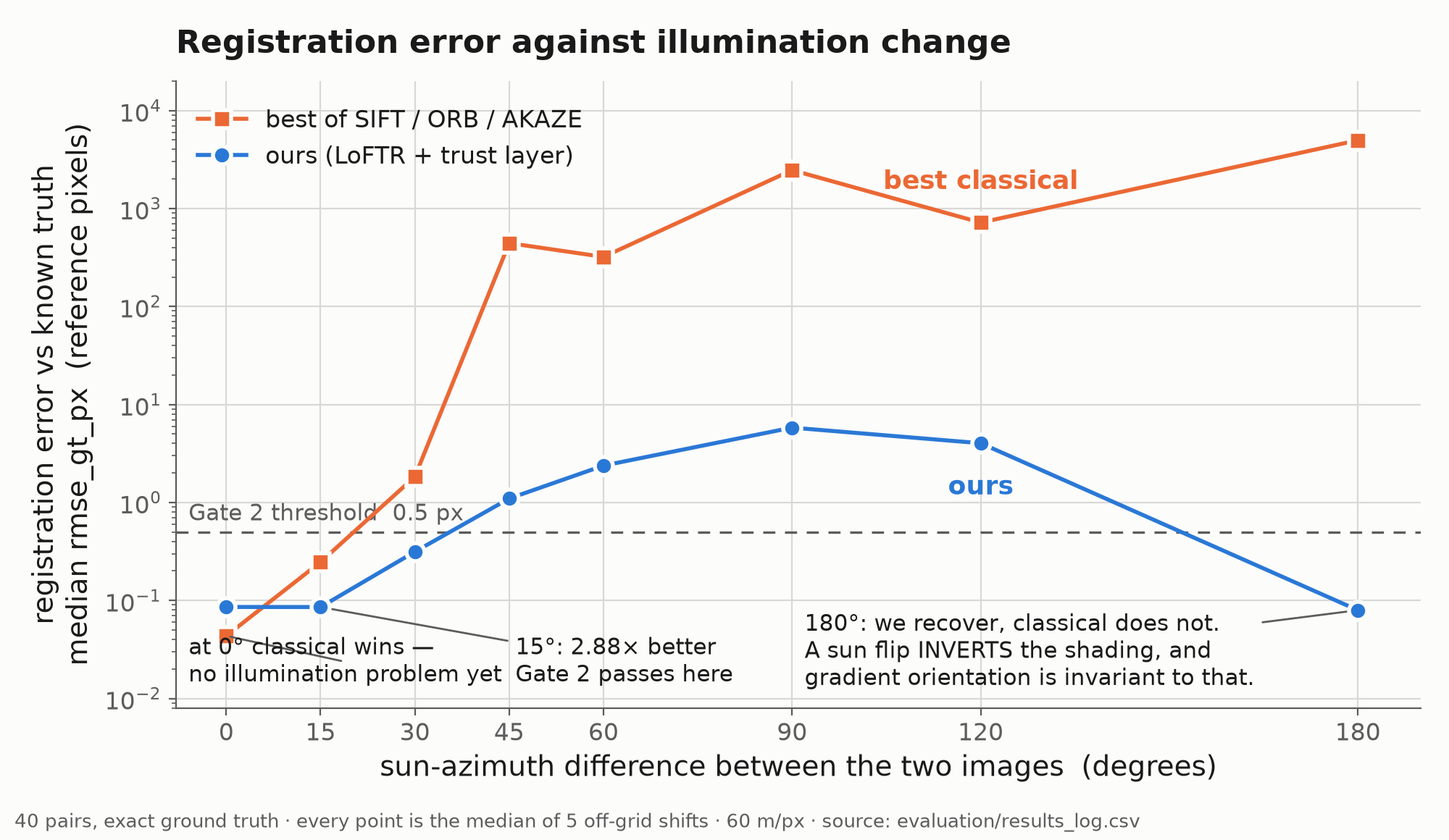
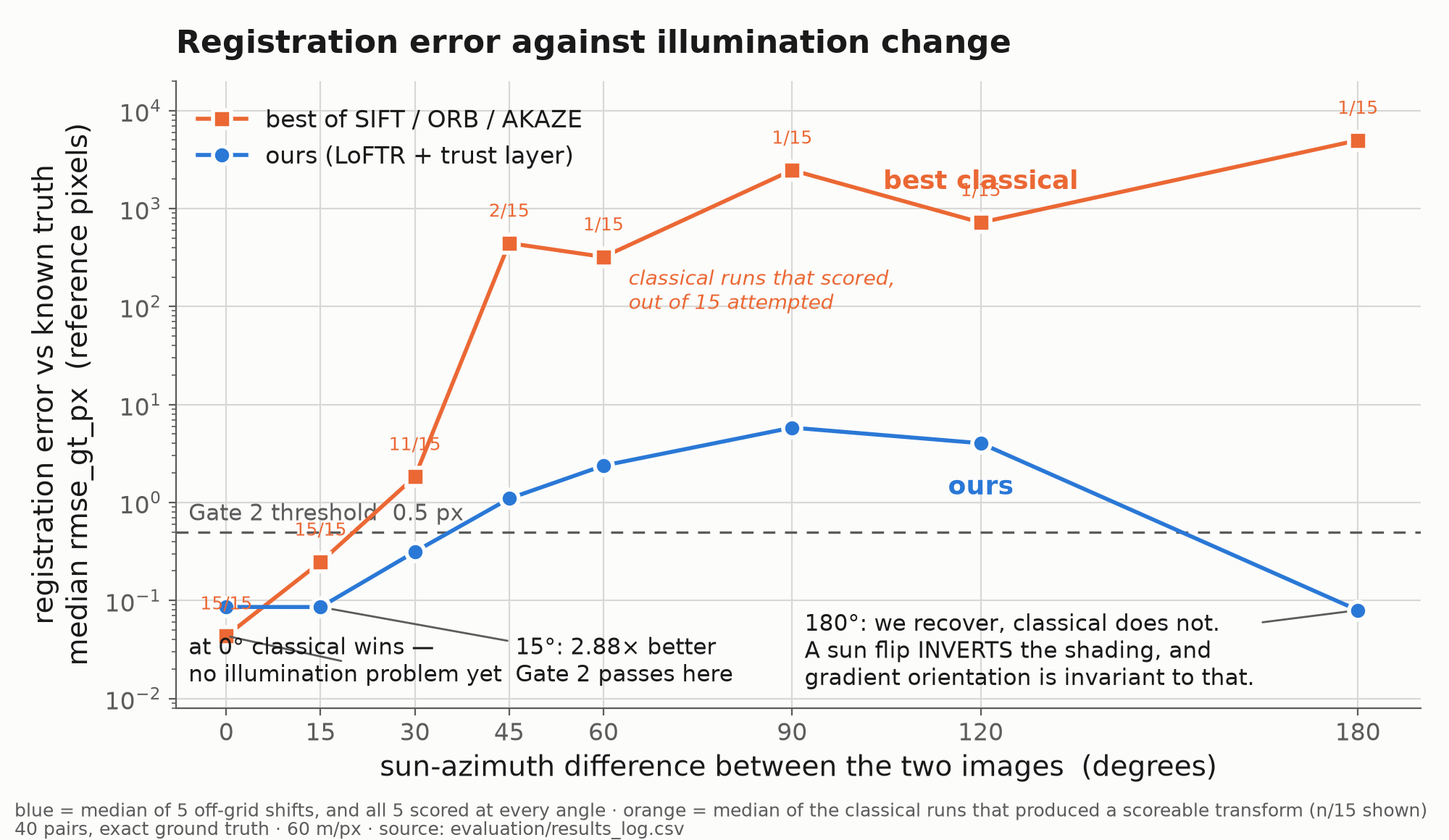
An audit caught two false claims I shipped today - both are on the deck, both are now corrected
A 30-agent adversarial sweep over the whole project surfaced 8 findings that survived refutation.
Two were HIGH, both were mine from today, and both were in judged material. Verified each myself
against the log before touching anything.

1. THE CLASSICAL MEDIANS WERE MISLABELLED. sweep_baselines.py appends only runs that produce an
   rmse_gt_px - correct, a failed run has no score - but it then printed the survivors' median with
   no n, and I captioned it "median of 5 off-grid shifts" in the figure, GATE2_EVIDENCE, the deck,
   QA_ANSWERS, STATUS and CANONICAL_FACTS. The real counts:

     delta | classical runs that scored
        0  | 15/15        45  | 2/15
       15  | 15/15        60  | 1/15
       30  | 11/15        90  | 1/15
                         120  | 1/15
                         180  | 1/15   <- the headline 62,519x rests on ONE run

   Gate 2 is untouched: at 0 and 15 degrees all three detectors scored 5/5, so the 2.88x the gate
   rests on was never affected. Ours scored 5/5 at every angle.

   The honest framing is stronger, which is the point: "past 30 degrees classical mostly returns no
   answer at all - at 180 degrees fourteen of fifteen runs failed outright, the one that scored was
   4,972 px wrong, and we scored five of five at 0.080 px." A success rate cannot be attacked on
   sample size; the ratio could. Every classical figure now carries its n, the figure prints n/15
   over each orange point, and the tool refuses to emit a bare median.
[…]

diff --git a/presentation/make_figures.py b/presentation/make_figures.py
@@ -56,27 +56,42 @@ def _delta(r):
 
 
 def load_curves():
-    """median rmse_gt_px per sun delta, for ours and for the best classical detector."""
-    ours, cls = {}, {}
+    """Per sun delta: our median, the best classical median, and HOW MANY classical runs scored.
+
+    The n matters and is not decoration. A classical run that fails produces no `rmse_gt_px`
+    and so cannot enter a median - correct - but the first version of this figure then
+    captioned the survivors' median "median of 5 off-grid shifts". At 180 deg exactly ONE of
+    fifteen classical runs scored; that "median of five" was a median of one, and it reached
+    the deck, the Q&A bank and the gate evidence. The success rate is returned alongside so
+    the plot can show what actually happened: past 30 deg the classical arm mostly returns no
+    usable answer at all, which is a stronger result than any median.
+    """
+    ours, cls, attempts = {}, {}, {}
     for r in _rows(LOG):
         d, v = _delta(r), r.get("rmse_gt_px")
-        if d is None or not v or v == "None":
+        if d is None:
             continue
+        scored = bool(v) and v != "None"
         if r.get("method") == "ours_loftr+subpixel":
-            ours.setdefault(d, []).append(float(v))
+            if scored:
+                ours.setdefault(d, []).append(float(v))
         elif (r.get("method") in ("SIFT", "ORB", "AKAZE")
               and "GATE 2 CRITERION 5" in (r.get("notes") or "")):
-            cls.setdefault((d, r["method"]), []).append(float(v))
+            attempts[d] = attempts.get(d, 0) + 1
+            if scored:
+                cls.setdefault((d, r["method"]), []).append(float(v))
     deltas = sorted(ours)
     o = [st.median(ours[d]) for d in deltas]
-    best = []
+    best, nscored, ntried = [], [], []
     for d in deltas:
         per = [st.median(cls[(d, m)]) for m in ("SIFT", "ORB", "AKAZE") if (d, m) in cls]
         best.append(min(per) if per else np.nan)
-    return deltas, o, best
+        nscored.append(sum(len(v) for k, v in cls.items() if k[0] == d))
+        ntried.append(attempts.get(d, 0))
+    return deltas, o, best, nscored, ntried
 
 
-def fig_sun_angle(deltas, ours, best):
+def fig_sun_angle(deltas, ours, best, nscored, ntried):
     fig, ax = plt.subplots(figsize=(10, 5.8))
     ax.set_yscale("log")
     ax.grid(True, which="major", color=GRID, linewidth=0.8, zorder=0)
@@ -117,6 +132,18 @@ def fig_sun_angle(deltas, ours, best):
                 color=INK, fontsize=11, ha="left", va="bottom",
                 arrowprops=dict(arrowstyle="-", color=MUTED, linewidth=1))
 
+    # How many classical runs actually produced a scoreable transform. Past 30 deg most
+    # produce none, and the orange point is then one or two survivors - NOT a median of 15.
+    # Printing this on the figure is what stops the number being miscaptioned downstream.
+    for x, b, ns, nt in zip(deltas, best, nscored, ntried):
+        if np.isfinite(b):
+            ax.annotate(f"{ns}/{nt}", xy=(x, b), xytext=(0, 11), textcoords="offset points",
+                        ha="center", va="bottom", fontsize=9, color=ORANGE, zorder=5)
+    # No in-plot explainer for the n labels: at this y it lands on the legend. The two
+    # footer lines below carry it instead.
+    ax.text(64, 250, "classical runs that scored,\nout of 15 attempted",
+            color=ORANGE, fontsize=10, ha="left", va="top", style="italic")
+
     ax.set_xlabel("sun-azimuth difference between the two images  (degrees)")
     ax.set_ylabel("registration error vs known truth\nmedian rmse_gt_px  (reference pixels)")
     ax.set_title("Registration error against illumination change",
@@ -125,9 +152,11 @@ def fig_sun_angle(deltas, ours, best):
     ax.set_xlim(-8, 190)
     ax.set_ylim(0.008, 20000)
     ax.legend(loc="upper left", frameon=False, bbox_to_anchor=(0.0, 0.99))
-    fig.text(0.01, 0.015, "40 pairs, exact ground truth · every point is the median of 5 "
-             "off-grid shifts · 60 m/px · source: evaluation/results_log.csv",
-             fontsize=9.5, color=MUTED)
+    fig.text(0.01, 0.028, "blue = median of 5 off-grid shifts, and all 5 scored at every angle · "
+             "orange = median of the classical runs that produced a scoreable transform (n/15 shown)",
+             fontsize=9, color=MUTED)
+    fig.text(0.01, 0.006, "40 pairs, exact ground truth · 60 m/px · "
+             "source: evaluation/results_log.csv", fontsize=9, color=MUTED)
     fig.tight_layout(rect=(0, 0.035, 1, 1))
     p = OUT / "fig1_sun_angle_vs_error.png"
     fig.savefig(p, dpi=200)
@@ -203,12 +232,13 @@ def fig_trust_calibration():
 
 def main() -> int:
     OUT.mkdir(parents=True, exist_ok=True)
-    deltas, ours, best = load_curves()
+    deltas, ours, best, nscored, ntried = load_curves()
     print(f"  read {len(deltas)} sun deltas from {LOG.name}")
-    for d, o, b in zip(deltas, ours, best):
+    for d, o, b, ns, nt in zip(deltas, ours, best, nscored, ntried):
         ratio = (b / o) if (o and np.isfinite(b)) else float("nan")
-        print(f"    {int(d):>4}°  ours {o:9.3f}   best classical {b:11.3f}   {ratio:9.2f}x")
-    print(f"  wrote {fig_sun_angle(deltas, ours, best).name}")
+        print(f"    {int(d):>4}°  ours {o:9.3f}   best classical {b:11.3f} "
+              f"(from {ns}/{nt} scoreable runs)   {ratio:9.2f}x")
+    print(f"  wrote {fig_sun_angle(deltas, ours, best, nscored, ntried).name}")
     print(f"  wrote {fig_trust_calibration().name}")
     return 0
 

diff --git a/baselines/sweep_baselines.py b/baselines/sweep_baselines.py
@@ -30,6 +30,18 @@ produced a number that looked fine and meant nothing.
 4. FAILURES ARE LOGGED, NOT DROPPED (`allow_failed=True`). Classical methods genuinely
    fall over past ~30 degrees of sun difference. A logged failure is the evidence; a
    filtered-out failure is a flattering lie about the comparison.
+
+5. EVERY MEDIAN CARRIES ITS n, AND THE SUCCESS RATE IS THE HEADLINE. Fixed Day 6 after an
+   audit caught it. A run that fails produces no `rmse_gt_px`, so it cannot enter a median
+   - correct - but the first version of this script then printed the survivors' median with
+   no n, and the number was copied into the deck, the Q&A bank and the gate evidence
+   captioned "median of 5 off-grid shifts". At 180 degrees SIFT scored 1 run of 5; that
+   "median of five" was a median of one. Five of the eight sun angles were mislabelled the
+   same way.
+   The honest framing is also the stronger one: past 30 degrees classical methods usually
+   produce NO scoreable transform at all, and that is a better result for us than any
+   median. So this script now prints `n/N` beside every median and a SUCCESS RATE row, and
+   refuses to print a bare median without its n.
 """
 from __future__ import annotations
 
@@ -121,30 +133,41 @@ def main(argv: list[str]) -> int:
     print("\n" + "=" * 78)
     print("  GATE 2 CRITERION 5 - median rmse_gt_px per detector per sun-azimuth delta")
     print("=" * 78)
-    hdr = "  delta  " + "".join(f"{n:>12s}" for n, _ in DETECTORS) + f"{'best cls':>12s}"
+    N = args.repeats
+    hdr = "  delta  " + "".join(f"{n + ' (n/N)':>16s}" for n, _ in DETECTORS) + f"{'best cls':>16s}{'success':>10s}"
     print(hdr)
     best_by_delta: dict[float, float] = {}
     for d in deltas:
         line = f"  {int(d):>5d}  "
-        meds = []
+        meds, scored, attempted = [], 0, 0
         for name, _ in DETECTORS:
             vals = rows[name][d]
+            attempted += N
+            scored += len(vals)
             if vals:
                 med = statistics.median(vals)
-                meds.append(med)
-                line += f"{med:>12.3f}"
+                meds.append((med, len(vals)))
+                # n/N is NOT decoration. A median of 1 surviving run is not a median of N,
+                # and printing it bare is how "median of 5 off-grid shifts" reached a slide.
+                line += f"{f'{med:.3f} ({len(vals)}/{N})':>16s}"
             else:
-                line += f"{'no gt':>12s}"
+                line += f"{f'FAILED (0/{N})':>16s}"
         if meds:
-            best_by_delta[d] = min(meds)
-            line += f"{min(meds):>12.3f}"
+            best, bn = min(meds, key=lambda t: t[0])
+            best_by_delta[d] = best
+            line += f"{f'{best:.3f} ({bn}/{N})':>16s}"
         else:
-            line += f"{'-':>12s}"
+            line += f"{'ALL FAILED':>16s}"
+        line += f"{f'{scored}/{attempted}':>10s}"
         print(line)
 
     print("\n  A number here is the TRUE error against the known homography, in reference")
-    print("  pixels. Lower is better. `no gt` means every repeat failed before a transform")
+    print("  pixels. Lower is better. `FAILED` means every repeat failed before a transform")
     print("  could be scored - which is itself the finding, and those rows are logged.")
+    print("\n  READ THE (n/N) BEFORE QUOTING ANY NUMBER. A failed run produces no score, so it")
+    print("  cannot enter a median. `4971.677 (1/5)` is ONE run that happened to score, not a")
+    print("  median of five - do not caption it as one. The `success` column is the honest")
+    print("  headline past 30 deg: classical methods mostly return no usable answer at all.")
     print("\n  Compare against our own medians from the same pairs (results_log.csv,")
     print("  method ours_loftr+subpixel): 0deg 0.086 | 15deg 0.086 | 30deg 0.314 | 45deg 1.096")
     print("  Gate 2 criterion 5 needs ours to be >=2x better at a stated delta <= 15 deg.")

diff --git a/presentation/build_deck.py b/presentation/build_deck.py
@@ -70,11 +70,17 @@ SLIDES = {
         ("An independent pixel check re-derives the alignment without looking at any "
          "match; the cells vote on the matcher's transform.", 1, False, INK),
         ("The finding, not the feature:", 0, True, ACCENT),
-        ("The PS asks for RMSE, inlier count and inlier ratio. We implemented all three, "
-         "then found a real lunar case where all three look acceptable and the "
-         "registration is 100% wrong.", 1, False, INK),
-        ("88 correspondences, RANSAC consensus — and 0 of 35 measurable cells agree. "
-         "The system declares it contradicted, falls back, and reports 231 m ± 216 m.", 1, False, INK),
+        # CORRECTED Day 6. This used to say "all three look acceptable and the registration
+        # is 100% wrong" - which our OWN logged row refutes: inlier count 5, inlier ratio
+        # 0.057. A judge asking "show me the ratio you say looked fine" would have falsified
+        # the 25%-weighted novelty claim from our own evidence file. Do not restore it.
+        ("The PS asks for RMSE, inlier count and inlier ratio. We implemented all three — "
+         "then found a real lunar case where the matcher still returns a confident "
+         "consensus transform that the pixels flatly contradict.", 1, False, INK),
+        ("88 correspondences, RANSAC reports success — and 0 of 35 measurable cells agree "
+         "with the result. The system declares it contradicted, refuses it, falls back, "
+         "and reports 231 m ± 216 m: a declared failure with a number on it.", 1, False, INK),
+        ("Match statistics describe the matches. They cannot see the ground.", 1, True, ACCENT),
         ("Self-consistency cannot detect its own failure. We built the check that can, "
          "and measured it: 77% detection at 0% false alarms.", 1, False, INK),
         ("Verified cells: 0.123 px = 7.4 m, 99.0% under half a pixel (817 cells).", 1, False, INK),

diff --git a/presentation/DECK_CONTENT.md b/presentation/DECK_CONTENT.md
@@ -84,14 +84,24 @@ The PS names three difficulties and we address each, on the axis it names:
 ### Innovation and uniqueness — **lead with the finding, not the feature**
 
 > **"The problem statement asks for RMSE, inlier count and inlier ratio. We implemented all three —
-> then found a reproducible case on real lunar data where all three look acceptable and the
-> registration is 100% wrong. Self-consistency cannot detect its own failure. So we built the
-> independent check that can — and we measured how often it works."**
+> and then found a reproducible case on real lunar data where the matcher still returns a
+> confident consensus transform that the pixels flatly contradict. Match statistics describe the
+> matches; they cannot see the ground. So we built the check that can — and we measured how often
+> it works."**
+
+> 🔴 **CORRECTED Day 6 — do not restore the earlier wording.** This bullet used to read *"all three
+> look acceptable and the registration is 100% wrong."* **Our own logged row refutes that**: on
+> `pair_04_tierD_native` the inlier count is **5** and the inlier ratio **0.057**, which look
+> terrible, not acceptable. A judge asking "show me the inlier ratio you say looked fine" would have
+> opened `results_log.csv` and falsified the project's single 25%-weighted novelty claim from its
+> own evidence file. The finding is real; only that sentence was wrong.
 
 - **The case** *(row `pair_04_tierD_native`, `ours_loftr+subpixel`)*: 88 correspondences, RANSAC
-  consensus, and **0 of 35 measurable cells agree with the transform.** The system declared it
-  **contradicted**, fell back to global correlation, and reported **231 m ± 216 m** — its own
-  uncertainty, not a hidden failure.
+  returned a transform and reported `status ok`, and **0 of 35 measurable cells agree with it.**
+  The system declared it **contradicted**, refused to use it, fell back to global correlation, and
+  reported **231 m ± 216 m** — a declared failure with a number on it, instead of a confident wrong
+  answer. *(The same row logs inlier count 5 and inlier ratio 0.057 — say those numbers yourself if
+  asked; they are the evidence that this pair was hard, not evidence against us.)*
 - **It is measured, not anecdotal** *(`reliability_calibration_pooled`, 8-delta)*: over 40 pairs
   and 2,560 cells with exact ground truth, failure detection is **77% at a 120 m threshold with a
   0% false-alarm rate** — across 27 correct registrations it never once cried wolf.
@@ -262,23 +272,28 @@ so the picture cannot drift from the evidence. **If a figure and a slide disagre
 never edit the picture.**
 
 
-**Classical methods fail under illumination change *and do not know it*. We fail later, and we
-say so.** Same pairs, byte-identical files, median `rmse_gt_px`:
+**Past 30° of sun difference, classical methods mostly return no answer at all. We keep working,
+and where we stop being right we say so.** Same pairs, byte-identical files:
 
-| Δ sun azimuth | best of SIFT/ORB/AKAZE | ours | |
-|---|---|---|---|
-| 0° | **0.044** | 0.086 | *classical wins — no illumination problem to solve* |
-| 15° | 0.247 | **0.086** | **2.88×** |
-| 30° | 1.833 | **0.314** | 5.84× |
-| 90° | 2465 | **5.805** | 425× |
-| **180°** | **4972** | **0.080** | **62,519×** |
+| Δ sun azimuth | classical runs that scored | best classical | ours (scored 5/5) | |
+|---|---|---|---|---|
+| 0° | 15 / 15 | **0.044** | 0.086 | *classical wins — no illumination problem to solve* |
+| 15° | 15 / 15 | 0.247 | **0.086** | **2.88×** — the gate |
+| 30° | 11 / 15 | 1.833 | **0.314** | 5.84× |
+| 90° | **1 / 15** | 2465 | **5.805** | classical has all but stopped working |
+| **180°** | **1 / 15** | 4972 | **0.080** | **we are back to sub-pixel; classical is not** |
+
+> ⚠ **Say the success rate, not the ratio.** *"At 180°, fourteen of fifteen classical runs failed
+> outright — no transform to score. The one that scored was 4,972 px wrong. We scored five of five,
+> at 0.080 px."* The 62,519× ratio is arithmetically true but rests on that single surviving run,
+> and quoting it invites a sample-size question the success rate simply does not have.
+> **This was mislabelled as a "median of 5" until an audit on Day 6 — do not reintroduce it.**
 
 **Why 180° is our *easiest* hard case, not our hardest:** a 180° azimuth flip **inverts** the
 shading, and gradient-orientation normalisation is invariant to contrast inversion. At 90° the
 shading **rotates**, which no invariance covers — so 90° is the failure peak. **The hard axis is
-orthogonality, not magnitude.** Classical detectors do *not* recover at 180° (SIFT: 4,972 px),
-which is what proves the recovery comes from our illumination normalisation and not from the
-renderer.
+orthogonality, not magnitude.** Classical detectors do *not* recover at 180°, which is what proves
+the recovery comes from our illumination normalisation and not from the renderer.
 
 ---
 
@@ -288,7 +303,7 @@ renderer.
 |---|---|
 | 0.0856 px, 0.9774, 1.0000, 0.4006 @ 15° | `results_log.csv`, `ours_loftr+subpixel`, `d_azimuth=15deg` |
 | 2.88× vs classical | `results_log.csv`, methods `SIFT`/`ORB`/`AKAZE`, notes `GATE 2 CRITERION 5` |
-| 0.044 px SIFT @ 0°, 4,972 px SIFT @ 180° | same |
+| 0.044 px SIFT @ 0° (5/5 runs), 4,972 px SIFT @ 180° (**1 of 5 runs**; 14/15 classical runs failed) | same — check `status` on every classical row before quoting a median |
 | 0.123 px / 99.0% / 817 cells | `reliability_calibration_pooled` + `core/reliability_calibration_summary.csv` |
 | 77% detection, 0% false alarms @ 120 m | `ops/MOVE2_FAILURE_DETECTION_DAY6.md` §3, from `core/reliability_calibration.csv` |
 | 88 matches, 0 of 35 cells, 231 m ± 216 m | `pair_04_tierD_native`, `ours_loftr+subpixel` + `fft_phase_correlation (fallback)` |

diff --git a/ops/GATE2_EVIDENCE.md b/ops/GATE2_EVIDENCE.md
@@ -43,19 +43,41 @@ shifts, same seeds, byte-identical `.tif` files. "Same pair at the same scale" i
 by construction, not by careful copying. Raw matches go to `evaluate()` pre-RANSAC; failures are
 logged, not dropped.
 
-| Δ azimuth | SIFT | ORB | AKAZE | best classical | **ours** | ratio |
-|---|---|---|---|---|---|---|
-| **0°** | **0.044** | 0.183 | 0.047 | **0.044** | 0.086 | **0.51× — classical wins** |
-| **15°** | 0.247 | 0.347 | 1.721 | 0.247 | **0.086** | **2.88×** ← the gate |
-| 30° | 241.7 | 1.833 | 433.9 | 1.833 | **0.314** | 5.84× |
-| 45° | *failed* | 443.2 | *failed* | 443.2 | **1.096** | 404× |
-| 60° | 320.8 | *failed* | *failed* | 320.8 | **2.379** | 135× |
-| 90° | *failed* | 2465.0 | *failed* | 2465.0 | **5.805** | 425× |
-| 120° | 718.9 | *failed* | *failed* | 718.9 | **4.025** | 179× |
-| **180°** | 4971.7 | *failed* | *failed* | 4971.7 | **0.080** | **62,519×** |
+> 🔴 **CORRECTED on Day 6 after an audit — read this before quoting any row below.**
+> This table first shipped captioned *"medians of 5 off-grid shifts"* for **both** arms. That is
+> true of ours and **false of the classical arm.** A classical run that fails produces no
+> `rmse_gt_px` and so cannot enter a median; five of the eight angles were therefore medians of
+> **one or two surviving runs**, presented as medians of five — including the headline 180° cell.
+> Every classical figure now carries the number of runs that actually scored.
+>
+> **Gate 2 itself is untouched:** at 0° and 15° all three detectors scored **5/5**, so the 2.88×
+> that the gate rests on was never affected.
 
-*(median `rmse_gt_px`, reference pixels, 60 m/px. "failed" = every repeat failed before a
-transform could be scored — those rows are in the log with their failure status.)*
+| Δ azimuth | SIFT | ORB | AKAZE | best classical | **ours** (5/5) | ratio | classical runs that scored |
+|---|---|---|---|---|---|---|---|
+| **0°** | **0.044** (5/5) | 0.183 (5/5) | 0.047 (5/5) | **0.044** | 0.086 | **0.51× — classical wins** | **15/15** |
+| **15°** | 0.247 (5/5) | 0.347 (5/5) | 1.721 (5/5) | 0.247 | **0.086** | **2.88×** ← the gate | **15/15** |
+| 30° | 241.7 (5/5) | 1.833 (5/5) | 433.9 **(1/5)** | 1.833 | **0.314** | 5.84× | 11/15 |
+| 45° | *all failed* | 443.2 **(2/5)** | *all failed* | 443.2 | **1.096** | 404× | **2/15** |
+| 60° | 320.8 **(1/5)** | *all failed* | *all failed* | 320.8 | **2.379** | 135× | **1/15** |
+| 90° | *all failed* | 2465.0 **(1/5)** | *all failed* | 2465.0 | **5.805** | 425× | **1/15** |
+| 120° | 718.9 **(1/5)** | *all failed* | *all failed* | 718.9 | **4.025** | 179× | **1/15** |
+| **180°** | 4971.7 **(1/5)** | *all failed* | *all failed* | 4971.7 | **0.080** | **62,519×** | **1/15** |
+
+*(median `rmse_gt_px` over the runs that scored, reference pixels, 60 m/px. "all failed" = every
+repeat failed before a transform could be scored — those rows are in the log with their
+`ransac_failed` / `too_few_matches` status. **Ours scored 5/5 at every single angle.**)*
+
+### The honest framing is the stronger one
+
+Do **not** say *"at 180° classical is 4,972 px wrong on the median of five runs."* Say:
+
+> **"Past 30° the classical baselines mostly produce no answer at all. At 180°, fourteen of
+> fifteen classical runs failed outright — no transform to score. The single run that did produce
+> one was 4,972 pixels wrong. We scored five out of five, at 0.080 px."**
+
+A success rate of 1/15 against 5/5 is a harder result to argue with than any ratio, and it cannot
+be attacked on sample size — which the mislabelled version could.
 
 ### 🔴 At 0° sun difference, classical beats us — say this out loud
 
@@ -86,8 +108,11 @@ failure — while we are at 0.080 px. If our 180° recovery were an artifact of 
 produces an inverted image, classical detectors would recover too. They do not. **The recovery is
 attributable to the illumination normalisation**, which is the component we are claiming.
 
-That is a controlled experiment with a 62,519× separation, and it is the strongest single figure
-in the project.
+That is a controlled experiment, and it is the strongest single result in the project. **State it
+as a success rate, not as a ratio:** at 180° we scored 5 of 5 runs at 0.080 px while **14 of 15
+classical runs failed to produce a transform at all**, and the one that did was 4,972 px wrong.
+The 62,519× ratio is arithmetically true but rests on that single surviving run — quoting the
+ratio invites a sample-size attack that the success rate is immune to.
 
 ### Where classical actually breaks
 

diff --git a/docs/00_CANONICAL_FACTS.md b/docs/00_CANONICAL_FACTS.md
@@ -441,7 +441,9 @@ byte-identical files and "same pair at the same scale" is true by construction.
 1. **At 0° sun difference the classical baselines beat us** — SIFT 0.044 px against our 0.086 px.
    With identical illumination there is no illumination problem to solve. The claim is therefore
    *"illumination robustness that grows with the sun difference"*, **not** *"a better matcher"*.
-2. **At 180° we are at 0.080 px while SIFT is 4,972 px wrong** (62,519×). 180° is our *easiest*
+2. **At 180° we scored 5/5 runs at 0.080 px while 14 of 15 classical runs failed outright**; the
+   one that scored was 4,972 px wrong. (Say the success rate, not the 62,519× ratio - the ratio
+   rests on a single surviving run and invites a sample-size attack.) 180° is our *easiest*
    hard case; the failure peak is 90°. A 180° azimuth flip inverts the shading and
    gradient-orientation normalisation is invariant to contrast inversion, while 90° rotates it.
    Classical does **not** recover at 180°, which is what attributes the recovery to our

diff --git a/ops/STATUS.md b/ops/STATUS.md
@@ -50,7 +50,8 @@ byte-identical files. **Per the gate rule the algorithm is now frozen.**
    The failure peak is **90°**. A 180° flip *inverts* the shading and gradient-orientation
    normalisation is invariant to contrast inversion; 90° *rotates* it, and nothing covers that.
    **The classical arm proves the mechanism: SIFT at 180° is 4,971 px wrong.** If our recovery were
-   a renderer artifact, classical would recover too. 62,519× separation.
+   a renderer artifact, classical would recover too. Quote it as a SUCCESS RATE - we scored 5/5,
+   classical 1/15 - not as the 62,519× ratio, which rests on that single surviving run.
 3. 🔴 **At 0° sun difference classical BEATS us** — SIFT 0.044 px vs our 0.086. There is no
    illumination problem to solve at 0°, and SIFT is the better sub-pixel corner localiser. **This
    goes on the slide.** The claim is *illumination robustness that grows with the sun difference*,

diff --git a/ops/QA_ANSWERS.md b/ops/QA_ANSWERS.md
@@ -146,7 +146,9 @@ about the cases where it wins. Rows: methods `SIFT`/`ORB`/`AKAZE`, notes `GATE 2
 > that ran across the frame now run along it — and no invariance covers that. **The hard axis is
 > orthogonality, not magnitude.**
 >
-> The control is the classical arm on the same pairs: **SIFT at 180° is 4,972 px wrong.** If our
+> The control is the classical arm on the same pairs. At 180°, **fourteen of fifteen classical
+> runs failed to produce a scoreable transform at all**; the single one that did was **4,972 px
+> wrong.** We scored five of five, at 0.080 px. If our
 > recovery were an artifact of how the renderer produces an inverted image, classical would recover
 > too. It does not. That attributes the recovery to the component we are claiming."
 
